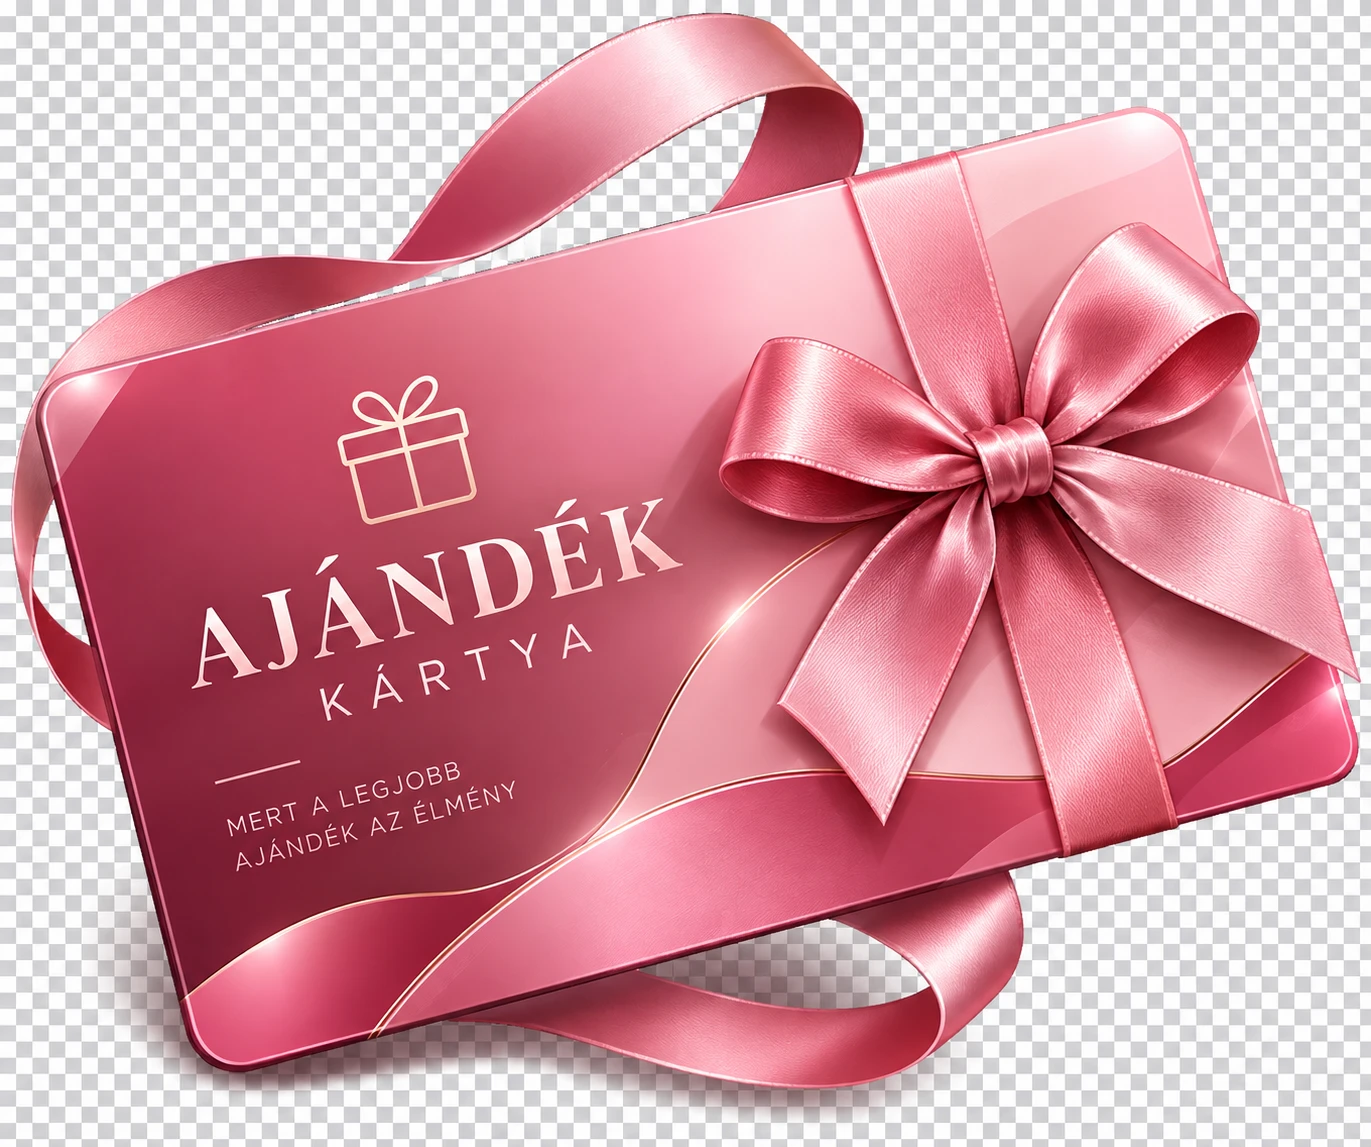
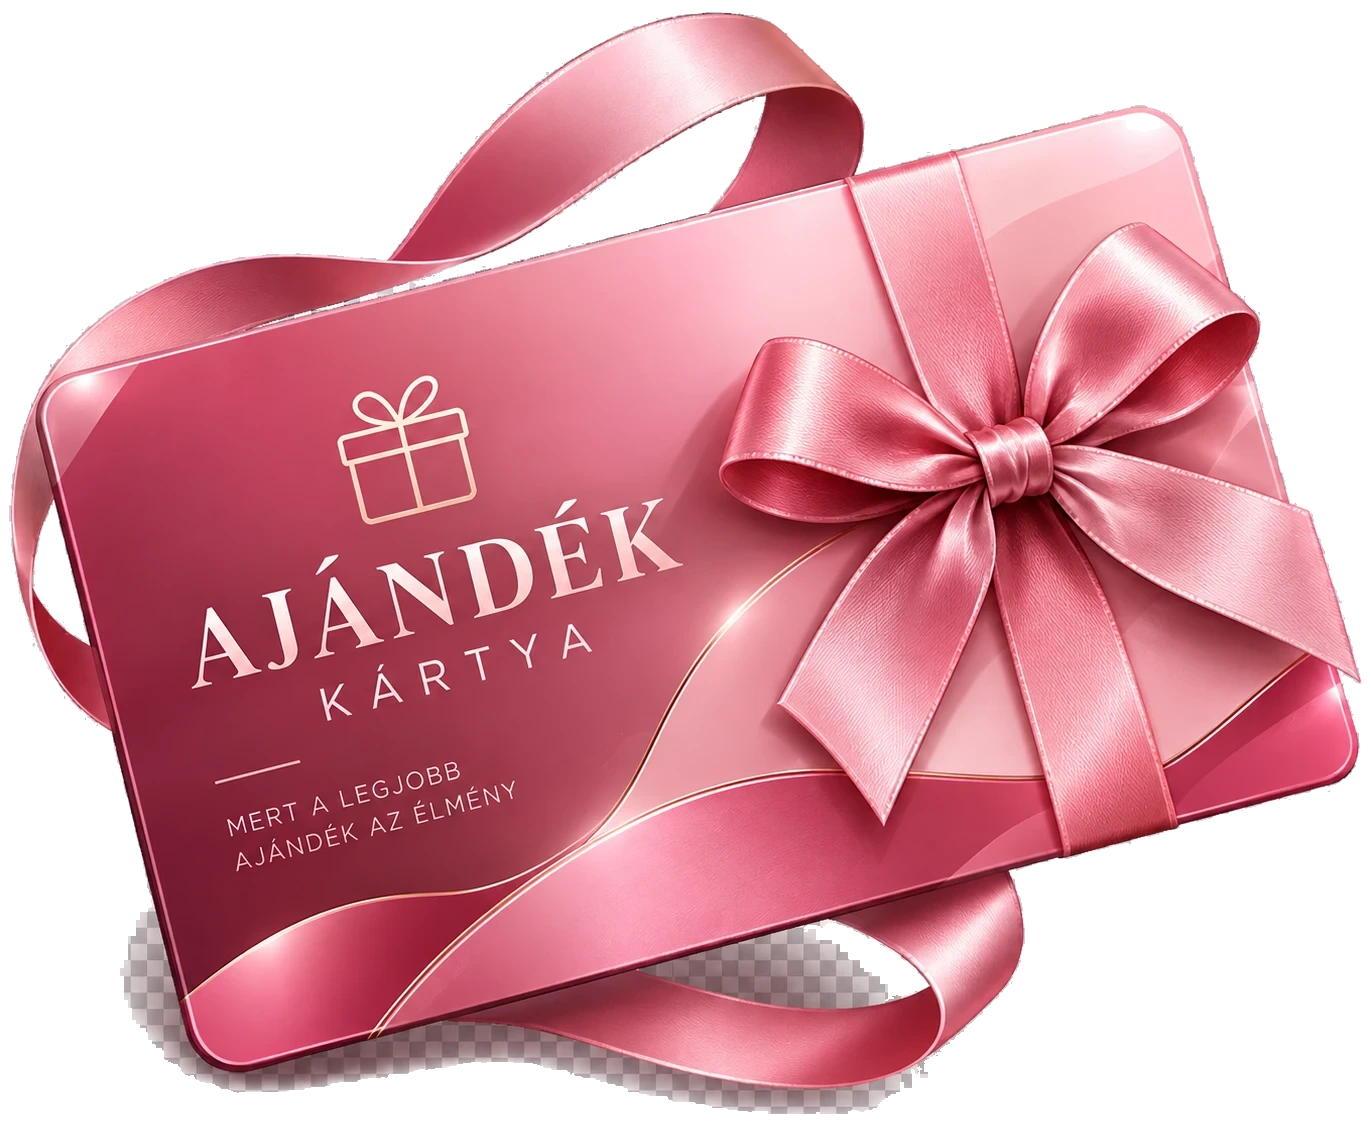
Remove fake business-card collage images, fix gift card transparency
- Removed card-010..013.webp (multi-card collage mockups, not real
  individual card photos) from the gallery.
- Fixed card-gift-ai.webp, which had a baked-in fake checkerboard
  instead of real alpha transparency (the other AI card images
  already had correct transparency from conversion).
- Updated the file dropzone label copy.

diff --git a/src/components/sites/www-plasztikkartya-hu-dd18f73f/root-8a5edab2/content.ts b/src/components/sites/www-plasztikkartya-hu-dd18f73f/root-8a5edab2/content.ts
@@ -63,14 +63,14 @@ export const cardTypes: CardType[] = [
   },
   {
     icon: "transparent",
-    image: "card-02.webp",
+    image: "card-vip-ai.webp",
     title: "Transzparens kártya",
     description:
       "Kínálatunkban víztiszta és különböző füstszínű plasztikkártyák érhetők el matt vagy fényes kivitelben. A klasszikus és különleges árnyalatok között mindenki megtalálhatja az igényeinek megfelelő megjelenést.",
   },
   {
     icon: "vip",
-    image: "card-vip-ai.webp",
+    image: "vip-card.webp",
     title: "VIP kártya",
     description:
       "VIP kártyáink exkluzív megjelenésükkel ideálisak rendezvények, klubok és kiemelt vendégek számára. Arany vagy ezüst felületkezeléssel, dombornyomással és belépő- vagy kulcskártya funkcióval is készülhetnek.",
@@ -162,9 +162,10 @@ export const steps: Step[] = [
   },
 ];
 
-export const galleryImages: GalleryImage[] = ["013", "012", "011", "010", "09", "08", "07", "06", "05", "04", "03", "02", "01"].map(
-  (n) => ({ src: `${IMAGES}/card-${n}.webp`, alt: `card-${n}` }),
-);
+export const galleryImages: GalleryImage[] = ["09", "08", "07", "06", "05", "04", "03", "02", "01"].map((n) => ({
+  src: `${IMAGES}/card-${n}.webp`,
+  alt: `card-${n}`,
+}));
 
 export const testimonialsSection = {
   title: "Vevői visszajelzések",

diff --git a/src/components/sites/www-plasztikkartya-hu-dd18f73f/root-8a5edab2/FileDropzone.tsx b/src/components/sites/www-plasztikkartya-hu-dd18f73f/root-8a5edab2/FileDropzone.tsx
@@ -49,7 +49,7 @@ export function FileDropzone({ name, className }: FileDropzoneProps) {
   return (
     <div className={cn("w-full", className)}>
       <label htmlFor={inputId} className="mb-2 block text-center font-raleway text-[14px] font-normal text-white">
-        Van grafika, töltsd fel fájlod <span className="text-white/45">(nem kötelező)</span>
+        Van grafikád? Töltsd fel képed <span className="text-white/45">(nem kötelező)</span>
       </label>
       <div
         role="button"

diff --git a/src/components/sites/www-plasztikkartya-hu-dd18f73f/root-8a5edab2/CardTypesCarousel.tsx b/src/components/sites/www-plasztikkartya-hu-dd18f73f/root-8a5edab2/CardTypesCarousel.tsx
@@ -12,6 +12,7 @@ const arrow =
 // Real pixel dimensions per image, used only to preserve aspect ratio (display size comes from className).
 const IMAGE_DIMENSIONS: Record<string, { width: number; height: number }> = {
   "card-02.webp": { width: 1552, height: 1552 },
+  "vip-card.webp": { width: 1488, height: 1106 },
   "card-gift-ai.webp": { width: 1371, height: 1147 },
   "card-vip-ai.webp": { width: 1371, height: 1147 },
   "card-door-ai.webp": { width: 1371, height: 1147 },
